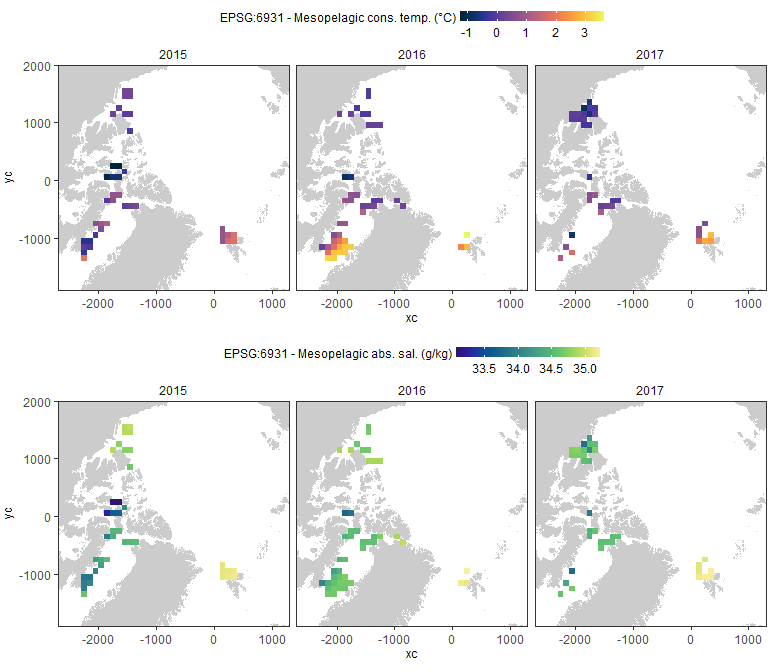
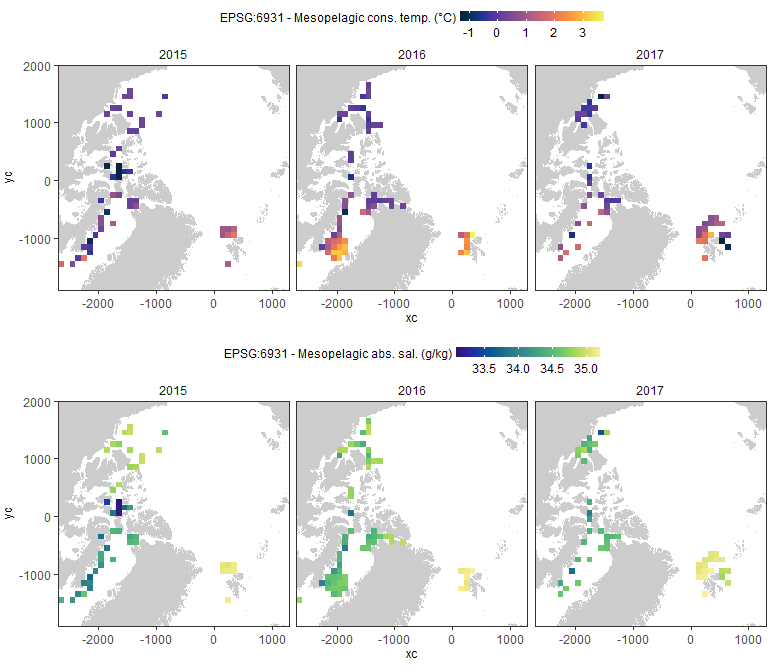
Change the method for changing map projection. spTransform() is used so that all the "raw" data is projected and then rasterized instead of projecting raster.

diff --git a/PanArctic_DSL_CTD.md b/PanArctic_DSL_CTD.md
@@ -1,7 +1,7 @@
 PanArctic DSL - CTD
 ================
 [Pierre Priou](mailto:pierre.priou@mi.mun.ca)
-2022/02/04 at 18:11
+2022/02/07 at 13:56
 
 # Package loading
 
@@ -121,9 +121,6 @@ website](https://nsidc.org/data/ease/).
 
 ``` r
 cell_res <- 100 # Cell resolution in km
-arctic_latlon <- raster(extent(-155, 35, 66, 85), # Base projection for acoustic and CTD data
-                        crs = "EPSG:4326", 
-                        res = c((cell_res/1.852)/60, (cell_res/1.852)/60)) # ~ 0.9 degrees == 23.99 nmi == 100 km
 arctic_laea <- raster(extent(-2700, 2700, -2700, 2700), crs = "EPSG:6931") # Seaice projection
 projection(arctic_laea) <- gsub("units=m", "units=km", projection(arctic_laea)) # Convert proj unit from m to km
 res(arctic_laea) <- c(cell_res, cell_res) # Define the 100 km cell resolution
@@ -145,10 +142,9 @@ for (i in seq(2015, 2017, 1)) { # Data gridding
                                                        lon = CTD_tmp$lon,
                                                        mean_cons_temp = CTD_tmp$mean_cons_temp,
                                                        mean_abs_sal = CTD_tmp$mean_abs_sal)) %>%
-    rasterize(., arctic_latlon, fun = mean, na.rm = T) %>% # Rasterize data in latlon
+    spTransform(., CRSobj = crs(arctic_laea)) %>% # Change projection to EPSG:6931
+    rasterize(., arctic_laea, fun = mean, na.rm = T) %>% # Rasterize data in latlon
     dropLayer(1) %>% # Remove ID layer
-    projectRaster(., crs = crs(arctic_laea)) %>% # Re-project data to laea
-    resample(., arctic_laea, "bilinear") %>% # Matches raster grid and cell sizes
     rasterToPoints() %>% # Convert raster to data frame
     as.data.frame() %>%
     rename(xc = x, yc = y) %>% # Rename variables
